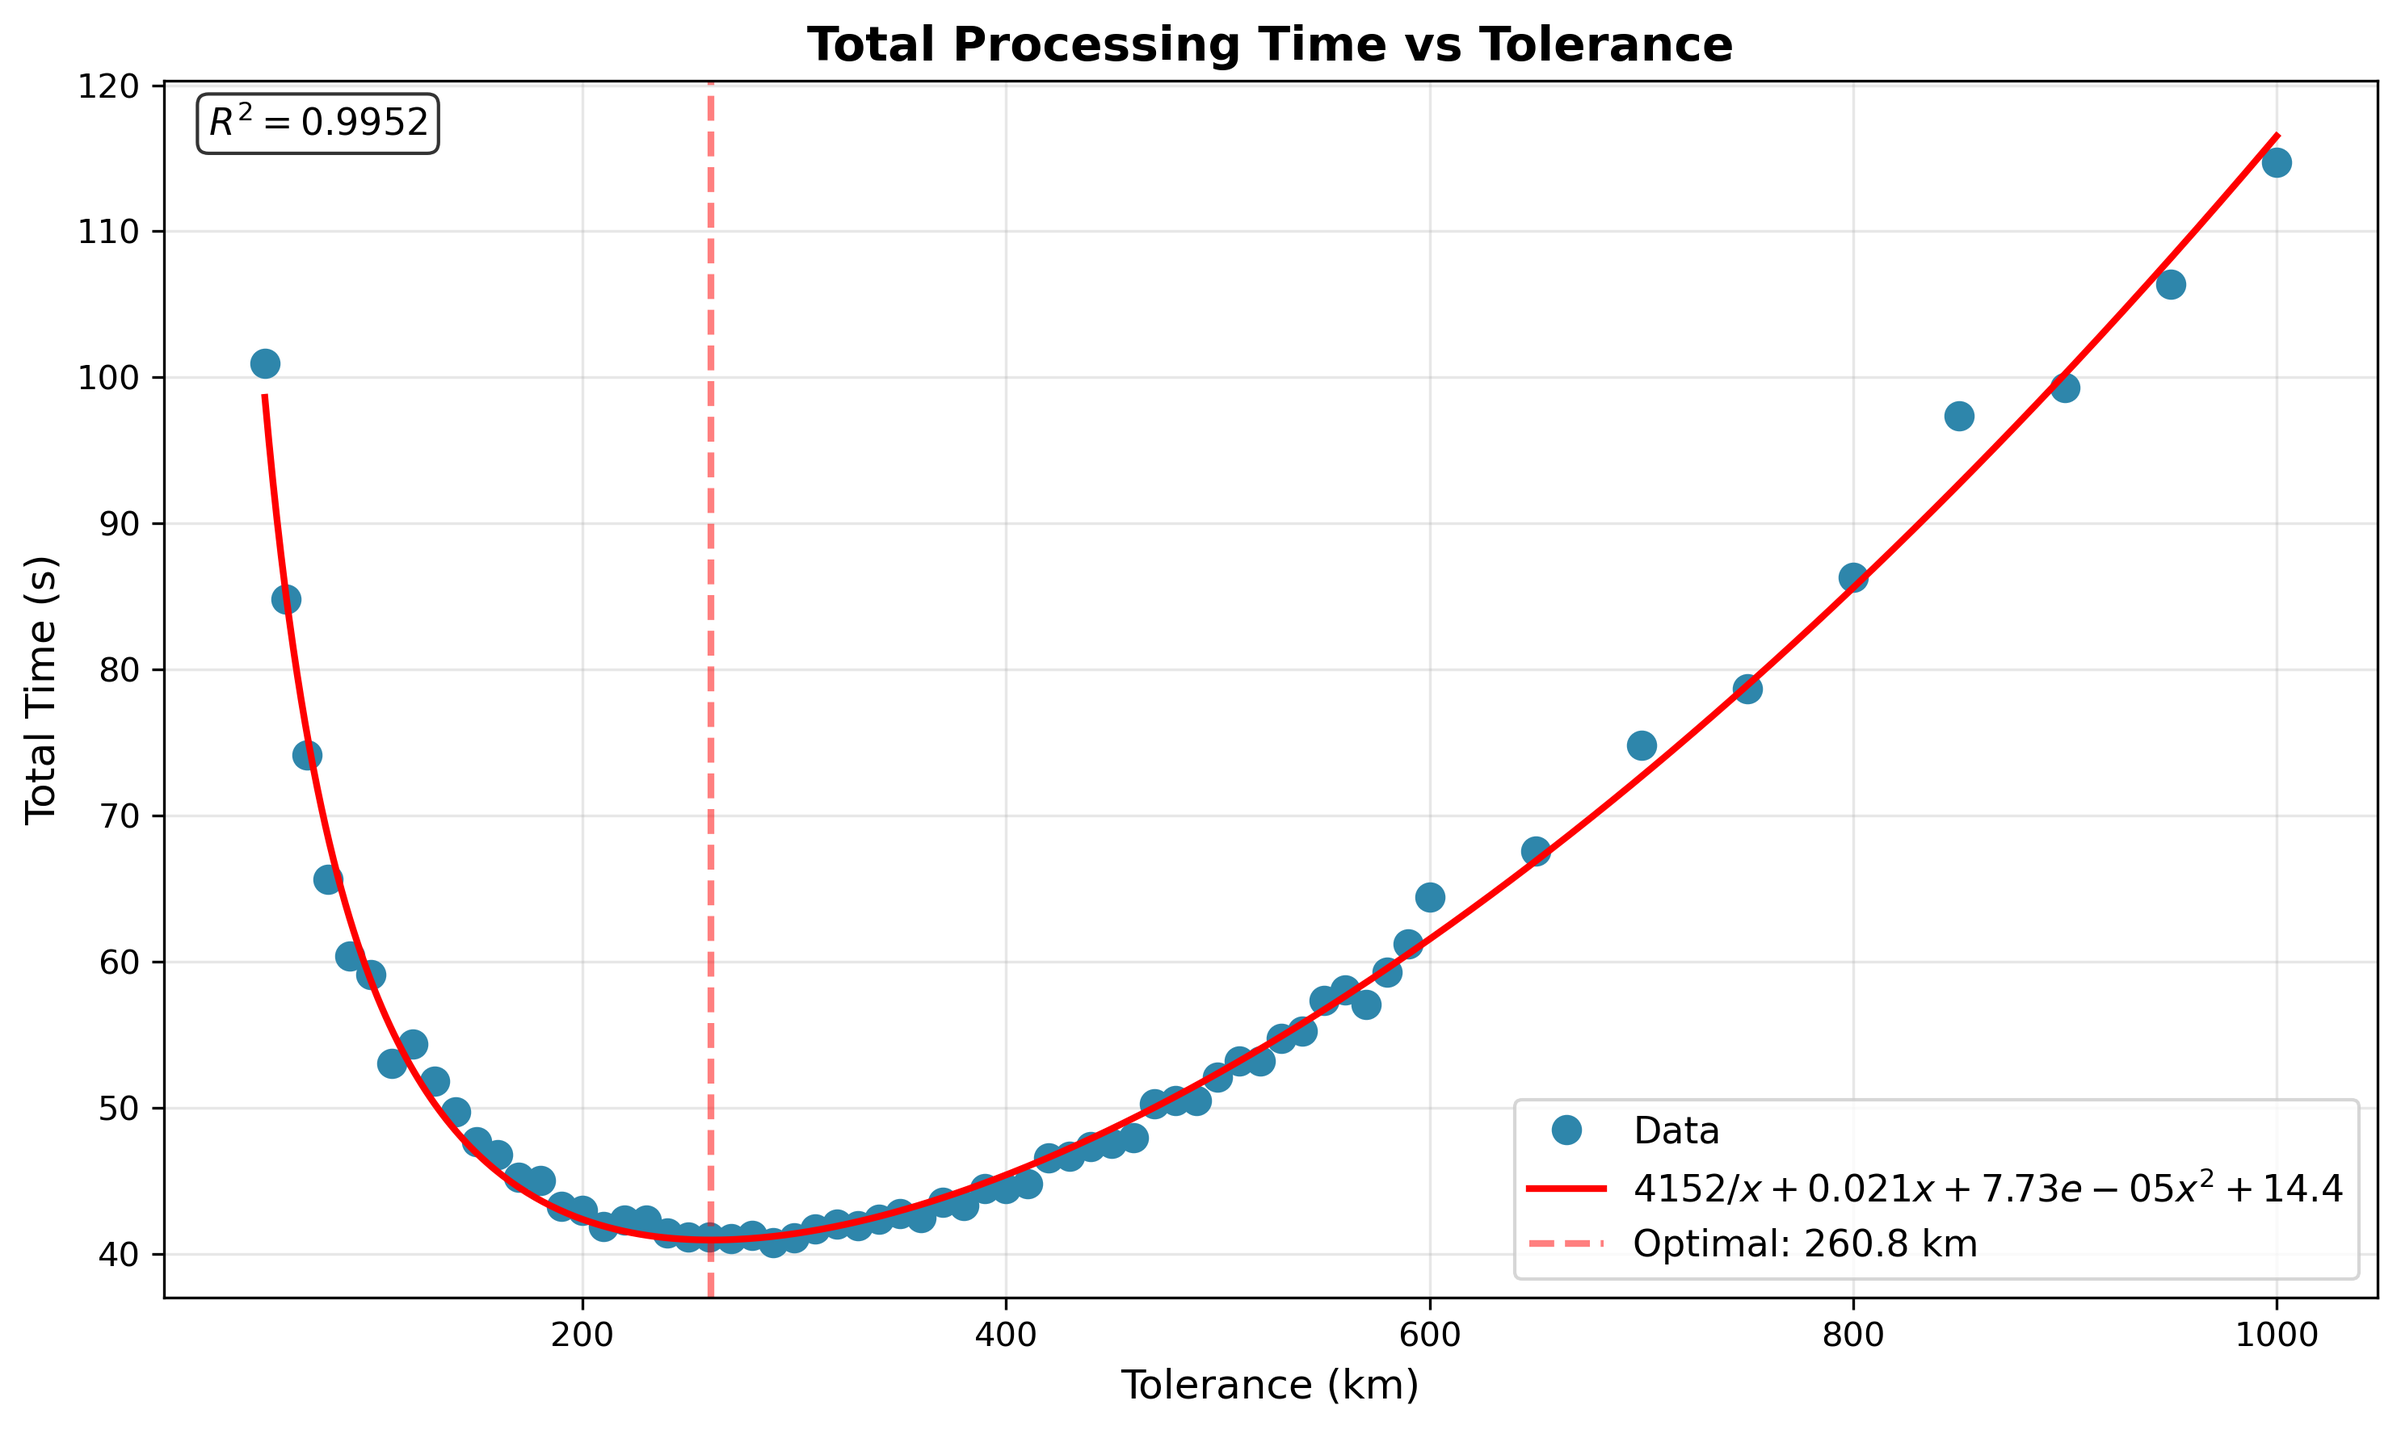
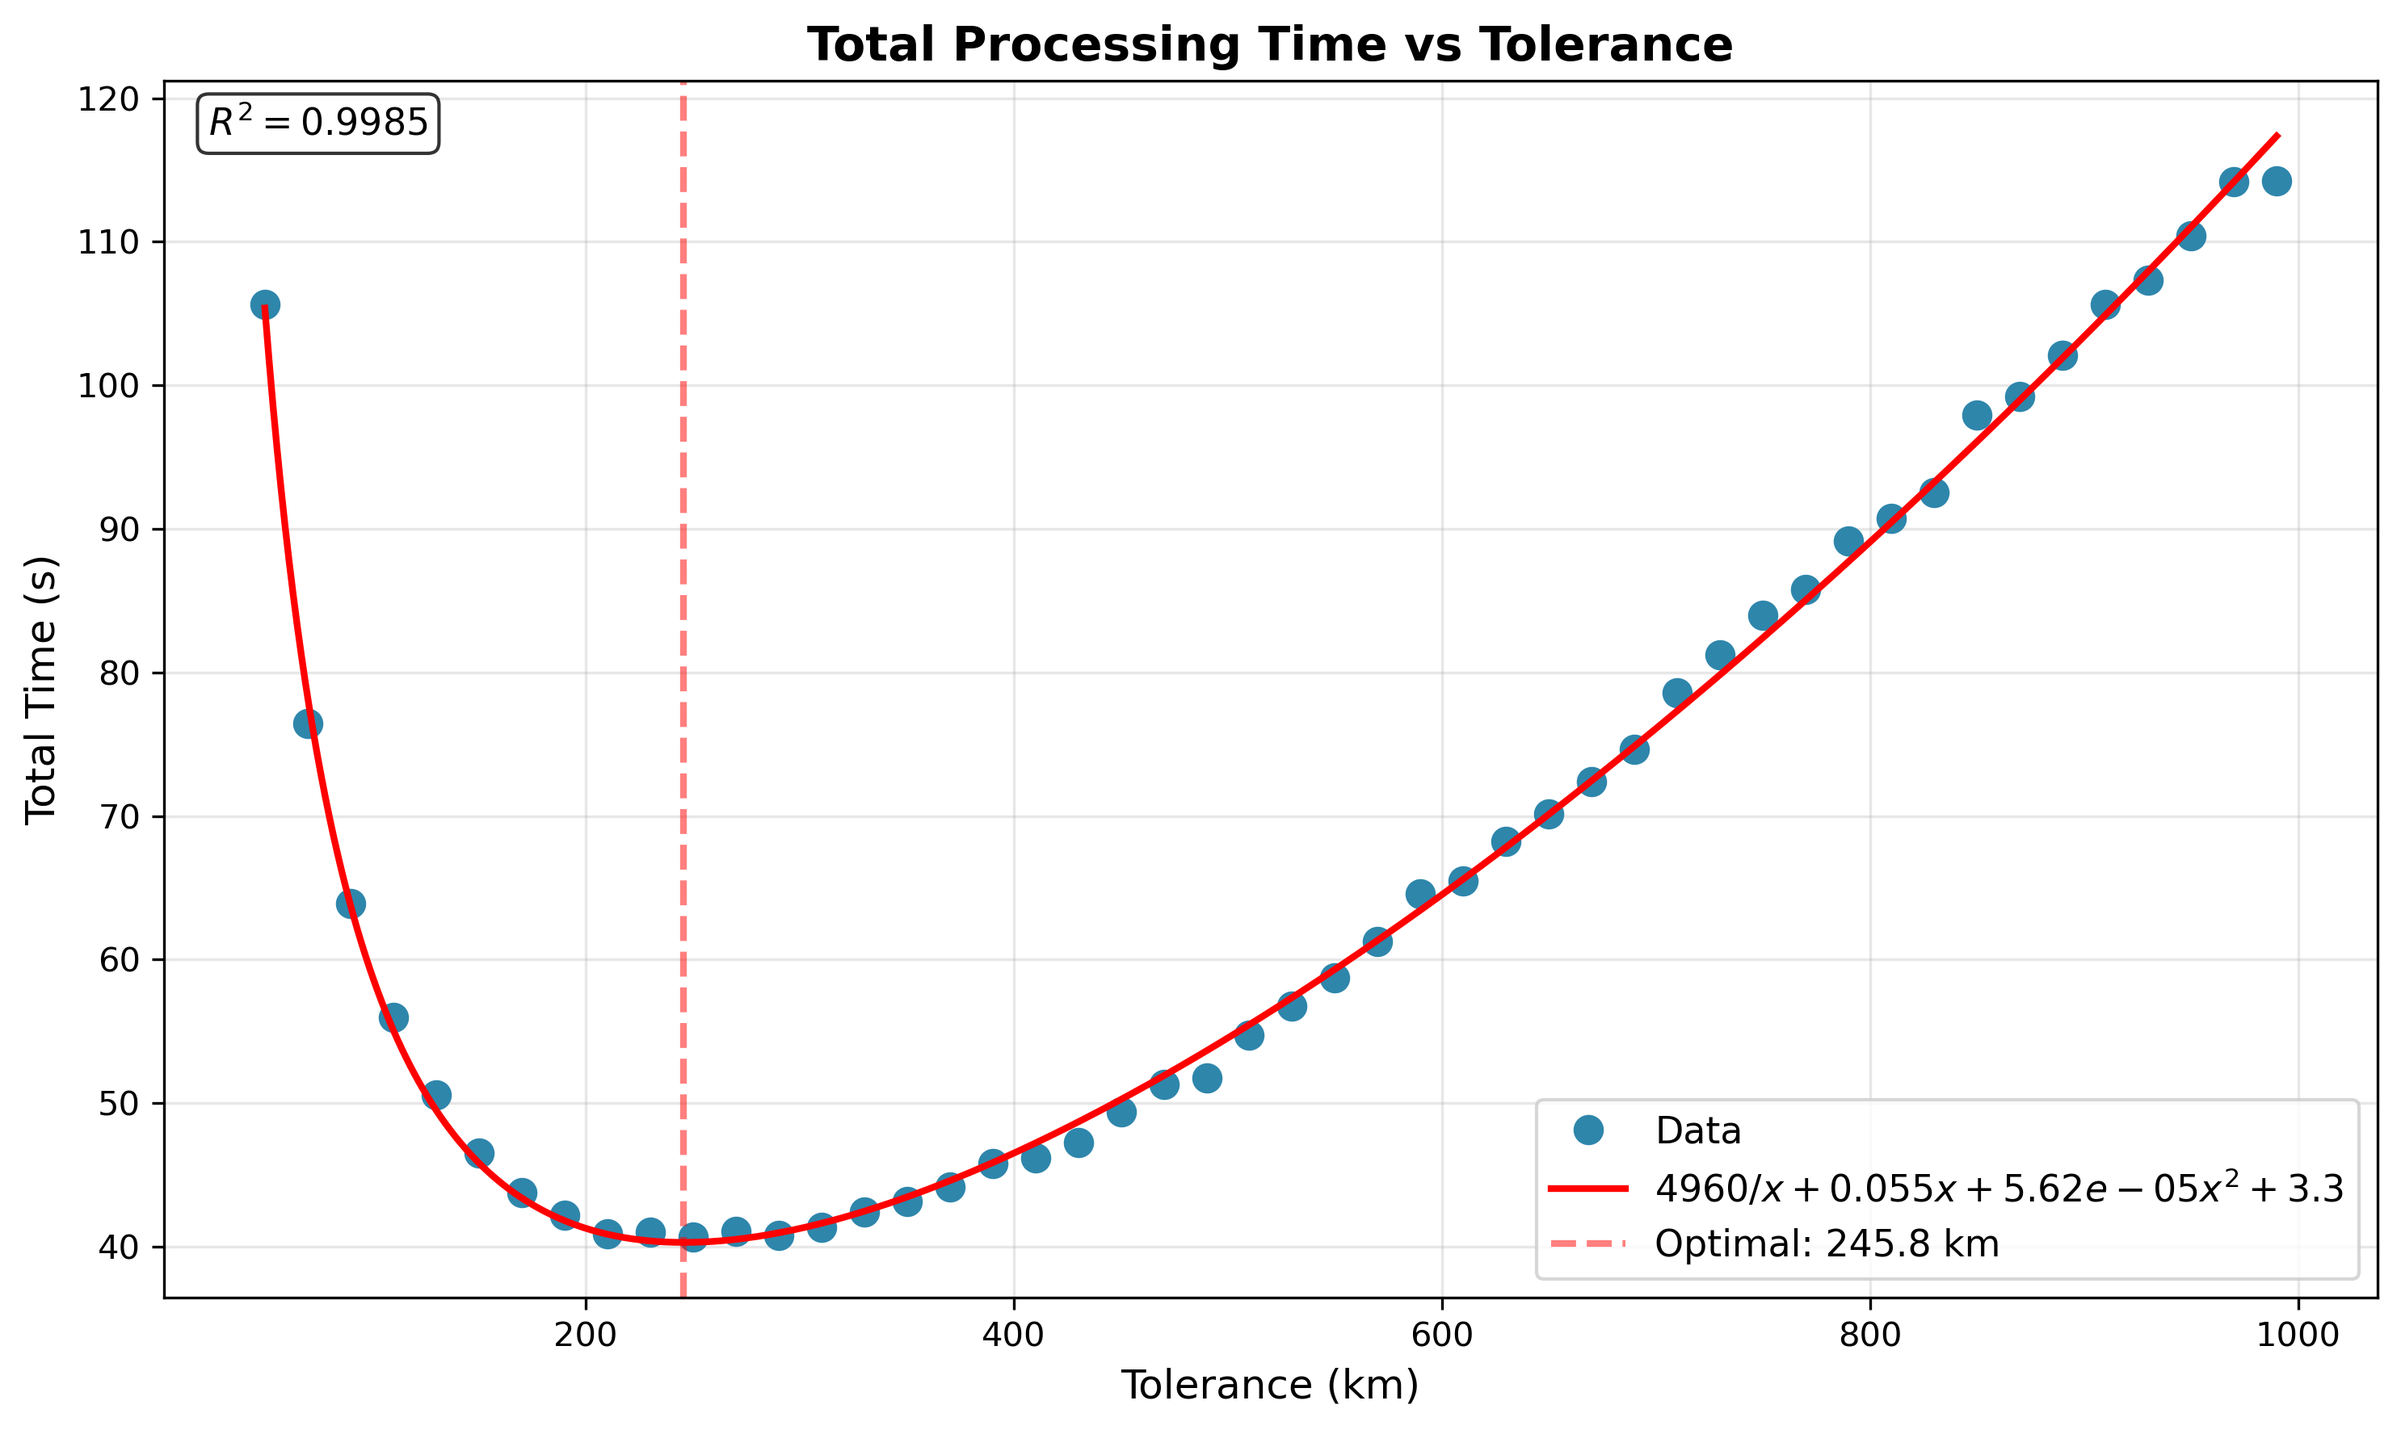
Implement probability model based on Aida & Kirschner 2013 paper; code cleanup

diff --git a/src/main/resources/templates/index.html b/src/main/resources/templates/index.html
@@ -1,15 +1,15 @@
 <!DOCTYPE html>
 <html lang="en">
 <head>
-    <script src="https://unpkg.com/htmx.org"></script>
-    <script src="https://cdn.tailwindcss.com"></script>
+    <script src="https://unpkg.com/htmx.org@2.0.8"></script>
+    <script src="https://cdn.jsdelivr.net/npm/@tailwindcss/browser@4"></script>
     <title>Conjunction Detector</title>
 </head>
 <body class="bg-white text-gray-900 p-8 min-h-screen">
 <h1 class="text-2xl font-semibold mb-6">Conjunction Detector</h1>
 
 <div class="flex items-center gap-2 text-sm">
-    <input class="rounded cursor-pointer"
+    <input class="rounded-sm cursor-pointer"
            hx-get="/hx/conjunctions"
            hx-include="this"
            hx-target="#results"
@@ -20,8 +20,12 @@
     <label class="cursor-pointer" for="includeFormations">Include formations (< 10 m/s)</label>
 </div>
 
-<div class="mt-6" hx-get="/hx/conjunctions" hx-trigger="load" id="results"></div>
+<div class="mt-6" hx-get="/hx/conjunctions" hx-trigger="load" id="results">
+    <p class="text-sm text-gray-400">Loading conjunctions...</p>
+</div>
 
-<div class="mt-8" hx-get="/hx/lastsync" hx-trigger="load" id="sync-info"></div>
+<div class="mt-8" hx-get="/hx/lastsync" hx-trigger="load" id="sync-info">
+    <p class="text-sm text-gray-400">Loading sync info...</p>
+</div>
 </body>
 </html>

diff --git a/src/main/resources/templates/fragments/conjunction-table.html b/src/main/resources/templates/fragments/conjunction-table.html
@@ -83,7 +83,7 @@
 </table>
 
 <div class="flex items-center gap-4 mt-4">
-    <button class="border border-gray-300 hover:bg-gray-50 px-3 py-1 rounded text-sm"
+    <button class="border border-gray-300 hover:bg-gray-50 px-3 py-1 rounded-sm text-sm"
             hx-target="#results"
             th:hx-get="'/hx/conjunctions?page=' + ${page.number - 1} + '&amp;sort=' + ${sortField} + ',' + ${sortDir} + '&amp;includeFormations=' + ${includeFormations}"
             th:if="${page.hasPrevious()}">
@@ -92,7 +92,7 @@
 
     <span class="text-sm text-gray-600" th:text="'Page ' + (${page.number} + 1) + ' of ' + ${page.totalPages}"></span>
 
-    <button class="border border-gray-300 hover:bg-gray-50 px-3 py-1 rounded text-sm"
+    <button class="border border-gray-300 hover:bg-gray-50 px-3 py-1 rounded-sm text-sm"
             hx-target="#results"
             th:hx-get="'/hx/conjunctions?page=' + ${page.number + 1} + '&amp;sort=' + ${sortField} + ',' + ${sortDir} + '&amp;includeFormations=' + ${includeFormations}"
             th:if="${page.hasNext()}">

diff --git a/src/main/resources/templates/satellite.html b/src/main/resources/templates/satellite.html
@@ -1,8 +1,8 @@
 <!DOCTYPE html>
 <html lang="en" xmlns:th="http://www.thymeleaf.org">
 <head>
-    <script src="https://unpkg.com/htmx.org"></script>
-    <script src="https://cdn.tailwindcss.com"></script>
+    <script src="https://unpkg.com/htmx.org@2.0.8"></script>
+    <script src="https://cdn.jsdelivr.net/npm/@tailwindcss/browser@4"></script>
     <title th:text="${satellite.objectName} + ' - Conjunction Detector'">Satellite</title>
 </head>
 <body class="bg-white text-gray-900 p-8 min-h-screen">
@@ -57,7 +57,7 @@
     </p>
 </div>
 
-<div class="mb-6 text-xs text-gray-500 border border-gray-200 rounded p-3 font-mono bg-gray-50 whitespace-pre"
+<div class="mb-6 text-xs text-gray-500 border border-gray-200 rounded-sm p-3 font-mono bg-gray-50 whitespace-pre"
      th:text="${satellite.tleLine1} + '&#10;' + ${satellite.tleLine2}"></div>
 
 <h2 class="text-lg font-semibold mt-8 mb-4">Conjunctions

diff --git a/src/main/resources/templates/visualization.html b/src/main/resources/templates/visualization.html
@@ -1,8 +1,8 @@
 <!DOCTYPE html>
 <html lang="en">
 <head>
-    <script src="https://unpkg.com/htmx.org"></script>
-    <script src="https://cdn.tailwindcss.com"></script>
+    <script src="https://unpkg.com/htmx.org@2.0.8"></script>
+    <script src="https://cdn.jsdelivr.net/npm/@tailwindcss/browser@4"></script>
     <title th:text="'Conjunction #' + ${visualization.id}"></title>
 </head>
 <body class="bg-white text-gray-900 p-8 min-h-screen">

diff --git a/src/main/java/io/salad109/conjunctiondetector/conjunction/internal/CollisionProbabilityService.java b/src/main/java/io/salad109/conjunctiondetector/conjunction/internal/CollisionProbabilityService.java
@@ -1,40 +1,133 @@
 package io.salad109.conjunctiondetector.conjunction.internal;
 
 import io.salad109.conjunctiondetector.conjunction.internal.ScanService.RefinedEvent;
+import io.salad109.conjunctiondetector.satellite.Satellite;
+import org.hipparchus.linear.Array2DRowRealMatrix;
+import org.hipparchus.linear.RealMatrix;
+import org.orekit.frames.LOFType;
+import org.orekit.orbits.CartesianOrbit;
+import org.orekit.orbits.Orbit;
+import org.orekit.propagation.StateCovariance;
+import org.orekit.ssa.collision.shorttermencounter.probability.twod.Laas2015;
+import org.orekit.ssa.collision.shorttermencounter.probability.twod.ShortTermEncounter2DPOCMethod;
+import org.orekit.ssa.metrics.ProbabilityOfCollision;
+import org.slf4j.Logger;
+import org.slf4j.LoggerFactory;
 import org.springframework.stereotype.Service;
 
+import java.time.Duration;
 import java.time.OffsetDateTime;
-import java.time.temporal.ChronoUnit;
 
 @Service
 public class CollisionProbabilityService {
 
-    // todo replace with historical TLE based model
-    public Conjunction computeProbabilityAndBuild(RefinedEvent event) {
-        double score = 0.0;
-        if (event.pvA() != null && event.relativeVelocityKmS() > 0.01) { // matches ConjunctionRepository:24 threshold
-            double t1 = tleAgeDays(event.pair().a().getEpoch(), event.tca());
-            double t2 = tleAgeDays(event.pair().b().getEpoch(), event.tca());
+    private static final Logger log = LoggerFactory.getLogger(CollisionProbabilityService.class);
 
-            // score = e^(-d) / (1 + t1 + t2)
-            score = Math.exp(-event.distanceKm()) / (1.0 + t1 + t2);
+    private static final double MU = 398600.4418e9; // m^3/s^2
+
+    private static final double RADIUS_PAYLOAD_M = 5.0;
+    private static final double RADIUS_ROCKET_BODY_M = 5.0;
+    private static final double RADIUS_DEBRIS_M = 0.5;
+    private static final double RADIUS_UNKNOWN_M = 1.0;
+
+    // SGP4 1-sigma position uncertainty (m). Aida & Kirschner (2013) Table 1.
+    // Growth rates: (6-7d value - epoch value) / 6.5d. Cross-track stays flat.
+
+    // LEO (<2000 km)
+    private static final double LEO_RADIAL_BASE_M = 176.0;
+    private static final double LEO_INTRACK_BASE_M = 695.0;
+    private static final double LEO_CROSSTRACK_BASE_M = 168.0;
+    private static final double LEO_RADIAL_GROWTH_M_PER_DAY = 125.0;
+    private static final double LEO_INTRACK_GROWTH_M_PER_DAY = 392.0;
+
+    // Higher orbits (>2000 km) -- extrapolated 2x base 0.5x growth
+    private static final double HIGH_RADIAL_BASE_M = LEO_RADIAL_BASE_M * 2.0;
+    private static final double HIGH_INTRACK_BASE_M = LEO_INTRACK_BASE_M * 2.0;
+    private static final double HIGH_CROSSTRACK_BASE_M = LEO_CROSSTRACK_BASE_M * 2.0;
+    private static final double HIGH_RADIAL_GROWTH_M_PER_DAY = LEO_RADIAL_GROWTH_M_PER_DAY * 0.5;
+    private static final double HIGH_INTRACK_GROWTH_M_PER_DAY = LEO_INTRACK_GROWTH_M_PER_DAY * 0.5;
+
+    private static final double LEO_ALTITUDE_THRESHOLD_KM = 2000.0;
+
+    // Faster than numerical integration and more accurate than existing analytical methods. Serra et al. (2016)
+    private final ShortTermEncounter2DPOCMethod pocMethod = new Laas2015();
+
+    /**
+     * Covariance synthesized from empirical SGP4 errors. Suitable only for screening.
+     */
+    public Conjunction computeProbabilityAndBuild(RefinedEvent event) {
+        double pc = 0.0;
+
+        if (event.pvA() != null && event.relativeVelocityKmS() > 0.01) {
+            try {
+                pc = computePc(event);
+            } catch (Exception e) {
+                log.debug("Pc computation failed for pair ({}, {}): {}",
+                        event.pair().a().getNoradCatId(), event.pair().b().getNoradCatId(), e.getMessage());
+            }
         }
 
         int object1 = Math.min(event.pair().a().getNoradCatId(), event.pair().b().getNoradCatId());
         int object2 = Math.max(event.pair().a().getNoradCatId(), event.pair().b().getNoradCatId());
 
-        return new Conjunction(
-                null,
-                object1,
-                object2,
-                event.distanceKm(),
-                event.tca(),
-                event.relativeVelocityKmS(),
-                score
-        );
+        return new Conjunction(null, object1, object2, event.distanceKm(),
+                event.tca(), event.relativeVelocityKmS(), pc);
+    }
+
+    private double computePc(RefinedEvent event) {
+        Satellite satA = event.pair().a();
+        Satellite satB = event.pair().b();
+
+        Orbit orbitA = new CartesianOrbit(event.pvA(), event.frame(), event.absoluteDate(), MU);
+        Orbit orbitB = new CartesianOrbit(event.pvB(), event.frame(), event.absoluteDate(), MU);
+
+        StateCovariance covA = buildCovariance(satA, tleAgeDays(satA.getEpoch(), event.tca()), event);
+        StateCovariance covB = buildCovariance(satB, tleAgeDays(satB.getEpoch(), event.tca()), event);
+
+        double combinedRadius = estimateRadius(satA) + estimateRadius(satB);
+
+        ProbabilityOfCollision result = pocMethod.compute(orbitA, covA, orbitB, covB, combinedRadius, 1e-15);
+
+        return Math.clamp(result.getValue(), 0.0, 1.0);
+    }
+
+    private StateCovariance buildCovariance(Satellite sat, double tleAgeDays, RefinedEvent event) {
+        double altitudeKm = sat.getPerigeeKm() != null ? sat.getPerigeeKm() : 500.0;
+        boolean isLeo = altitudeKm < LEO_ALTITUDE_THRESHOLD_KM;
+
+        double radialBase = isLeo ? LEO_RADIAL_BASE_M : HIGH_RADIAL_BASE_M;
+        double intrackBase = isLeo ? LEO_INTRACK_BASE_M : HIGH_INTRACK_BASE_M;
+        double crosstrackBase = isLeo ? LEO_CROSSTRACK_BASE_M : HIGH_CROSSTRACK_BASE_M;
+        double radialGrowth = isLeo ? LEO_RADIAL_GROWTH_M_PER_DAY : HIGH_RADIAL_GROWTH_M_PER_DAY;
+        double intrackGrowth = isLeo ? LEO_INTRACK_GROWTH_M_PER_DAY : HIGH_INTRACK_GROWTH_M_PER_DAY;
+
+        double sigR = radialBase + radialGrowth * tleAgeDays;
+        double sigT = intrackBase + intrackGrowth * tleAgeDays;
+        double sigW = crosstrackBase; // flat per Aida Table 1
+
+        RealMatrix cov = new Array2DRowRealMatrix(6, 6);
+        cov.setEntry(0, 0, sigR * sigR);
+        cov.setEntry(1, 1, sigT * sigT);
+        cov.setEntry(2, 2, sigW * sigW);
+        cov.setEntry(3, 3, 1e-6);
+        cov.setEntry(4, 4, 1e-6);
+        cov.setEntry(5, 5, 1e-6);
+
+        return new StateCovariance(cov, event.absoluteDate(), LOFType.QSW);
+    }
+
+    private double estimateRadius(Satellite sat) {
+        String type = sat.getObjectType();
+        if (type == null) return RADIUS_UNKNOWN_M;
+        return switch (type) {
+            case "PAYLOAD" -> RADIUS_PAYLOAD_M;
+            case "ROCKET BODY" -> RADIUS_ROCKET_BODY_M;
+            case "DEBRIS" -> RADIUS_DEBRIS_M;
+            default -> RADIUS_UNKNOWN_M;
+        };
     }
 
     private double tleAgeDays(OffsetDateTime epoch, OffsetDateTime tca) {
-        return Math.max(0, ChronoUnit.HOURS.between(epoch, tca) / 24.0);
+        return Math.max(0, Duration.between(epoch, tca).toSeconds() / 86400.0);
     }
 }

diff --git a/src/main/java/io/salad109/conjunctiondetector/conjunction/internal/ConjunctionBenchmark.java b/src/main/java/io/salad109/conjunctiondetector/conjunction/internal/ConjunctionBenchmark.java
@@ -63,7 +63,7 @@ public class ConjunctionBenchmark implements CommandLineRunner {
         log.info("Loaded {} satellites", satellites.size());
 
         // Use fixed start time
-        OffsetDateTime fixedStartTime = OffsetDateTime.of(2026, 1, 13, 19, 0, 0, 0, ZoneOffset.UTC)
+        OffsetDateTime fixedStartTime = OffsetDateTime.of(2026, 2, 15, 19, 35, 0, 0, ZoneOffset.UTC)
                 .truncatedTo(ChronoUnit.DAYS);
         log.info("Using fixed start time: {}", fixedStartTime);
 
@@ -79,7 +79,7 @@ public class ConjunctionBenchmark implements CommandLineRunner {
 
         //noinspection InfiniteLoopStatement
         while (true) {
-            for (double toleranceKm = 50; toleranceKm <= 800; toleranceKm += 10) {
+            for (double toleranceKm = 50; toleranceKm <= 1000; toleranceKm += 2 * stepSecondRatio) {
                 int stepSeconds = (int) (toleranceKm / stepSecondRatio);
 
                 System.gc();

diff --git a/src/main/java/io/salad109/conjunctiondetector/satellite/internal/PairReductionNative.java b/src/main/java/io/salad109/conjunctiondetector/satellite/internal/PairReductionNative.java
@@ -2,6 +2,7 @@ package io.salad109.conjunctiondetector.satellite.internal;
 
 import io.salad109.conjunctiondetector.satellite.Satellite;
 import io.salad109.conjunctiondetector.satellite.SatellitePair;
+
 import java.lang.foreign.*;
 import java.lang.invoke.MethodHandle;
 import java.nio.file.Files;

diff --git a/docs/6-conjunction-tolerance-tuning.md b/docs/6-conjunction-tolerance-tuning.md
@@ -23,13 +23,13 @@ The rest (pair reduction, filter, propagator build, refine) are roughly constant
 
 | Tolerance | Prop+Check | Grouping | Total  |
 |-----------|------------|----------|--------|
-| 100 km    | 51.93s     | 3.79s    | 59.10s |
-| 260 km    | 28.10s     | 9.43s    | 41.14s |
-| 500 km    | 26.25s     | 21.14s   | 52.10s |
+| 90 km     | 58.35s     | 2.67s    | 63.91s |
+| 250 km    | 28.18s     | 8.62s    | 40.66s |
+| 490 km    | 25.19s     | 21.78s   | 51.74s |
 
 ## Conclusion
 
-**Optimal tolerance is 260 km (step size 26s).**
+**Optimal tolerance is 250 km (step size 25s).**
 
 ![Total Processing Time](6-conjunction-tolerance/1_total_time.png)
 
